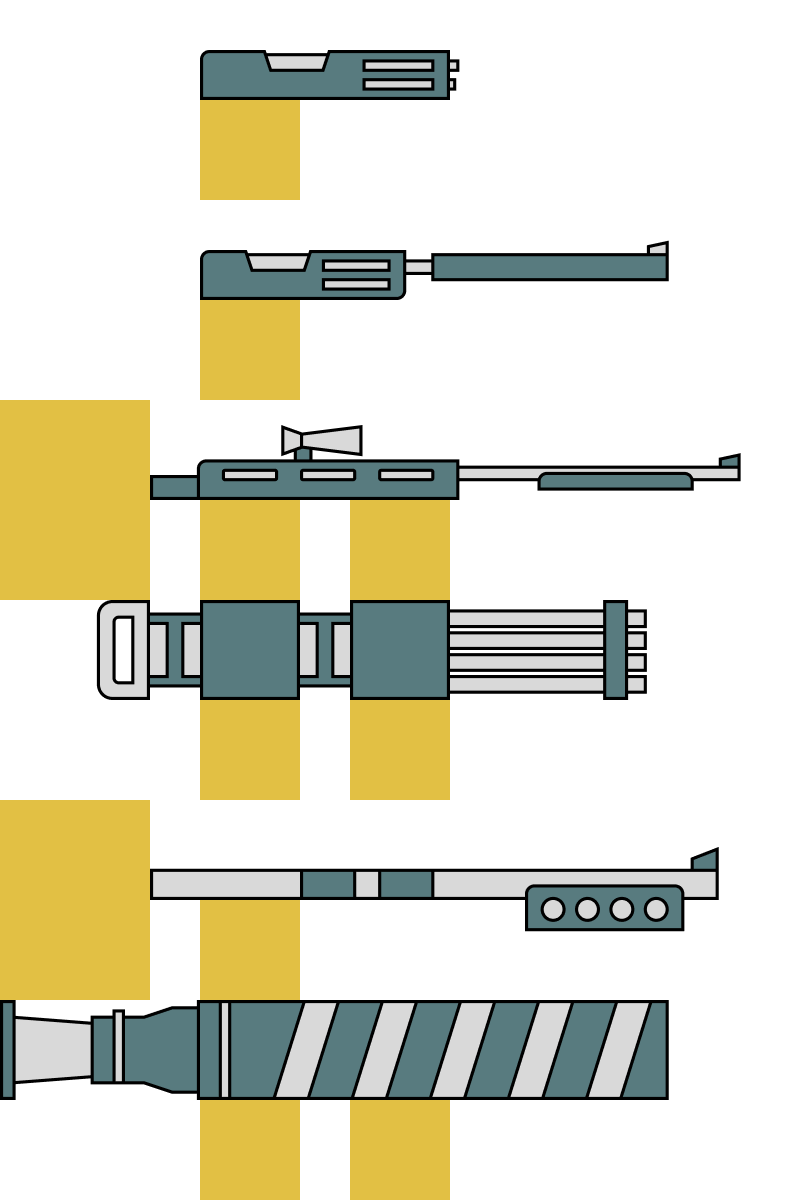
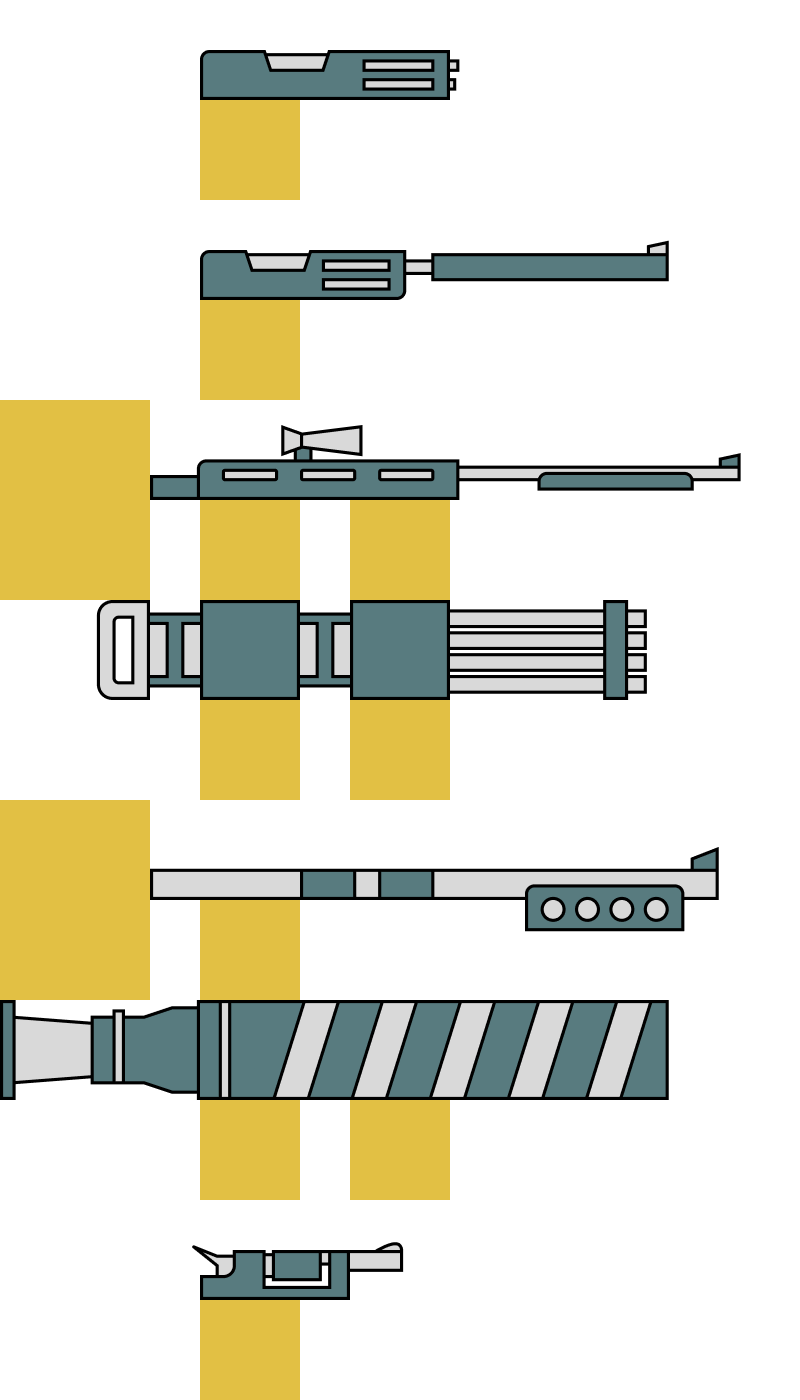
added some guns and stuff

diff --git a/src/menu/modgun.js b/src/menu/modgun.js
@@ -9,33 +9,59 @@ let gunPartsIndex = {
   magazine: 0,
 };
 
-function changePart(part) {
-  gunPartsIndex[part]++;
+function changePart(part, add = 1) {
+  gunPartsIndex[part] += add;
 
-  if (gunPartsIndex[part] >= gunParts[part].length) gunPartsIndex[part] = 0;
+  gunPartsIndex[part] = (gunPartsIndex[part] + gunParts[part].length) % gunParts[part].length;
+
   setGun(gunParts.body[gunPartsIndex.body], gunParts.grip[gunPartsIndex.grip], gunParts.stock[gunPartsIndex.stock], gunParts.magazine[gunPartsIndex.magazine]);
 }
 
 export function loadButtons() {
-  new Button(0, 0, () => changePart("body"));
+  new Button(0, 0, () => changePart("body", -1), 200, 100);
+  new Button(210, 0, () => changePart("body"), 200, 100);
 
-  new Button(0, 220, () => changePart("grip"));
+  new Button(0, 110, () => changePart("grip", -1), 200, 100);
+  new Button(210, 110, () => changePart("grip"), 200, 100);
 
   new Button(
     0,
-    330,
-    () => changePart("stock"),
-    400,
+    220,
+    () => changePart("stock", -1),
+    200,
     100,
     () => {
       return !gun.body.canModStock;
     }
   );
+
+  new Button(
+    210,
+    220,
+    () => changePart("stock"),
+    200,
+    100,
+    () => {
+      return !gun.body.canModStock;
+    }
+  );
+
   new Button(
     0,
-    110,
+    330,
+    () => changePart("magazine", -1),
+    200,
+    100,
+    () => {
+      return !gun.body.canModMag;
+    }
+  );
+
+  new Button(
+    210,
+    330,
     () => changePart("magazine"),
-    400,
+    200,
     100,
     () => {
       return !gun.body.canModMag;

diff --git a/src/gunparts.js b/src/gunparts.js
@@ -1,4 +1,4 @@
-import { Bullet, ShotgunShell, SniperBullet } from "./bullettypes";
+import { BallBullet, Bullet, RubberBullet, ShotgunShell, SniperBullet } from "./bullettypes";
 
 class Body {
   static nextImageIndex = 0;
@@ -47,6 +47,8 @@ export let gunParts = {
     new Body(SniperBullet, 1, 0, false),
     new Body(Bullet, 5, 0.1, true, true, false),
     new Body(ShotgunShell, 2, 0.1),
+    new Body(RubberBullet, 1, 0, true, false, false),
+    new Body(BallBullet, 1, 0, false, false, false),
   ],
   grip: [new Grip(0.2, 1), new Grip(0.4, 0.8), new Grip(0.6, 0.6), new Grip(0.8, 0.4), new Grip(1, 0.2)],
   stock: [new Stock(0.2, 0.8, 1), new Stock(0.6, 1, 0.4), new Stock(1, 0.5, 0.5)],

diff --git a/src/bullettypes.js b/src/bullettypes.js
@@ -70,3 +70,16 @@ export class SniperBullet extends Bullet {
     super.draw();
   }
 }
+
+export class RubberBullet extends Bullet {
+  constructor(x, y, dirX, dirY, power) {
+    super(x, y, dirX, dirY, power);
+
+    this.imageIndex = 4;
+  }
+
+  update() {
+    super.update();
+    super.draw();
+  }
+}

diff --git a/src/gun.js b/src/gun.js
@@ -28,7 +28,7 @@ export class Gun {
     this.mobility = 1;
 
     this.fireRate = 0.2;
-    this.accuracy = 0.2;
+    this.accuracy = 1;
     this.power = 1;
 
     this.reloadTime = 1;
